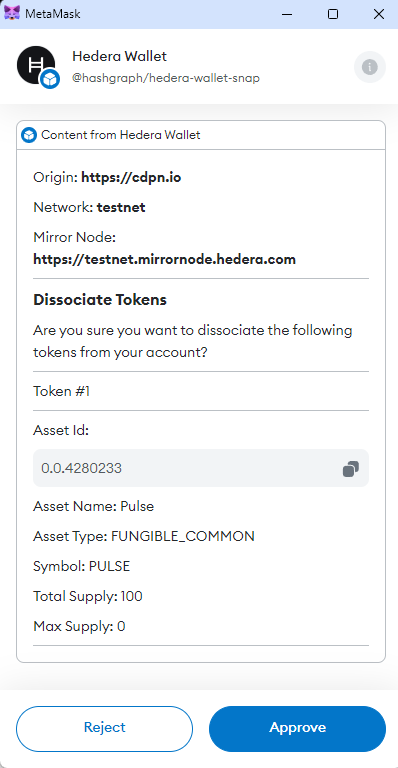
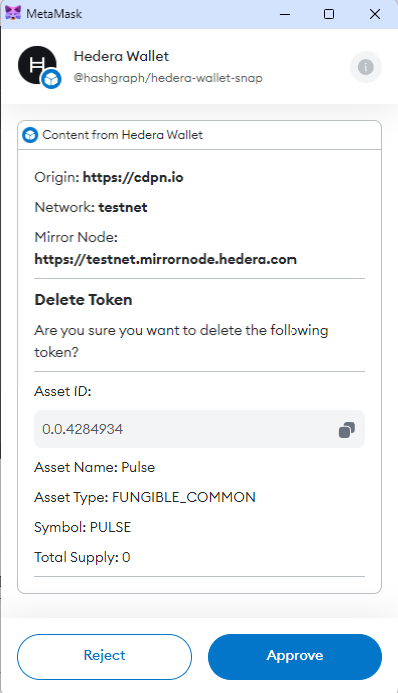
GITBOOK-48: No subject

diff --git a/hedera-wallet-snap/snap-rpc-apis/hts-apis/hts-wipetoken.md b/hedera-wallet-snap/snap-rpc-apis/hts-apis/hts-wipetoken.md
@@ -54,7 +54,7 @@ You must call this API with the account that has the ability to wipe tokens from
 4. This action cannot be called if this token was created without passing the `wipePublicKey` parameter. Furthermore, this action must also be called using the same public key account.
 5. Returns the transaction receipt as response
 
-<figure><img src="../../../.gitbook/assets/Untitled.png" alt=""><figcaption></figcaption></figure>
+<figure><img src="../../../.gitbook/assets/Untitled (1).png" alt=""><figcaption></figcaption></figure>
 
 An example response:
 

diff --git a/hedera-wallet-snap/snap-rpc-apis/hts-apis/hts-updatetokenfeeschedule.md b/hedera-wallet-snap/snap-rpc-apis/hts-apis/hts-updatetokenfeeschedule.md
@@ -59,6 +59,10 @@ You must call this API with the account that has the ability to update token fee
 4. This action cannot be called if this token was created without passing the `feeScheedulePublicKey` parameter. Furthermore, this action must also be called using the same public key account.
 5. Returns the transaction receipt as response
 
+
+
+<figure><img src="../../../.gitbook/assets/Untitled.png" alt=""><figcaption></figcaption></figure>
+
 An example response:
 
 ```json

diff --git a/hedera-wallet-snap/snap-rpc-apis/basic-apis/hello.md b/hedera-wallet-snap/snap-rpc-apis/basic-apis/hello.md
@@ -33,7 +33,7 @@ Note that you do not need to pass in "mirrorNodeUrl" but if you do, the snap wil
 
 
 
-<figure><img src="../../../.gitbook/assets/Untitled (1) (1) (1).png" alt=""><figcaption></figcaption></figure>
+<figure><img src="../../../.gitbook/assets/Untitled (1) (1) (1) (1).png" alt=""><figcaption></figcaption></figure>
 
 Some example responses:
 

diff --git a/hedera-wallet-snap/snap-rpc-apis/hts-apis/hts-dissociatetokens.md b/hedera-wallet-snap/snap-rpc-apis/hts-apis/hts-dissociatetokens.md
@@ -51,7 +51,7 @@ Note that you can also pass in multiple token Ids to dissociate multiple tokens 
 
 
 
-<figure><img src="../../../.gitbook/assets/Untitled (1) (1).png" alt=""><figcaption></figcaption></figure>
+<figure><img src="../../../.gitbook/assets/Untitled (1) (1) (1).png" alt=""><figcaption></figcaption></figure>
 
 Some example responses:
 

diff --git a/hedera-wallet-snap/snap-rpc-apis/hts-apis/hts-deletetoken.md b/hedera-wallet-snap/snap-rpc-apis/hts-apis/hts-deletetoken.md
@@ -52,7 +52,7 @@ const deleteTokenAPI = async () => {
 
 
 
-<figure><img src="../../../.gitbook/assets/Untitled (1).png" alt=""><figcaption></figcaption></figure>
+<figure><img src="../../../.gitbook/assets/Untitled (1) (1).png" alt=""><figcaption></figcaption></figure>
 
 An example response:
 
